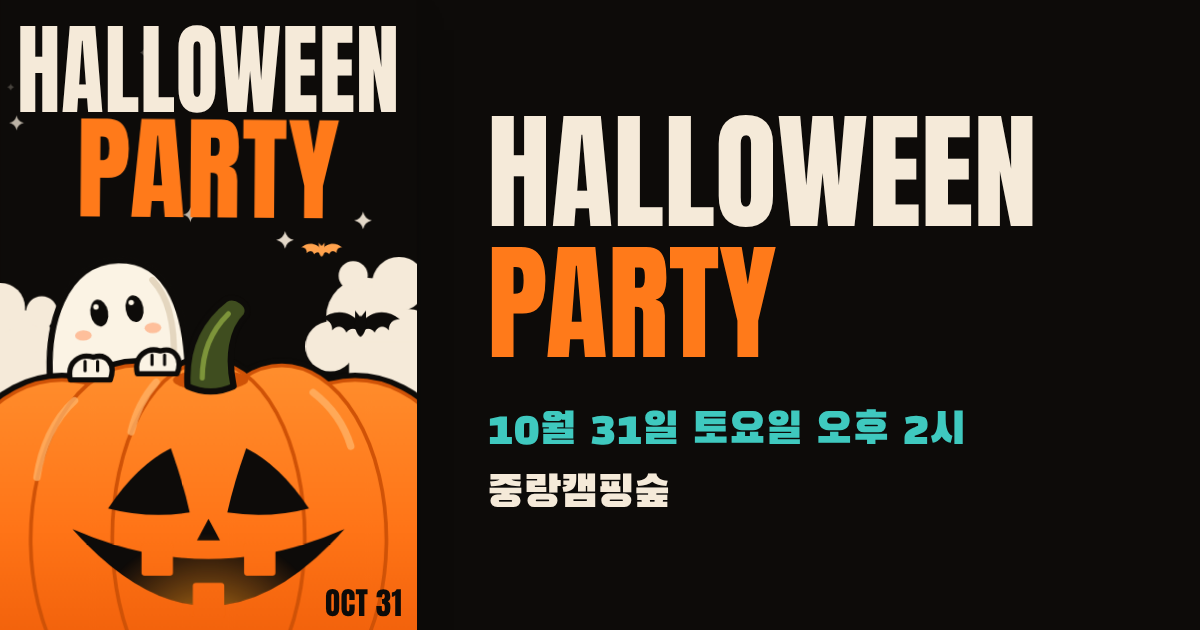
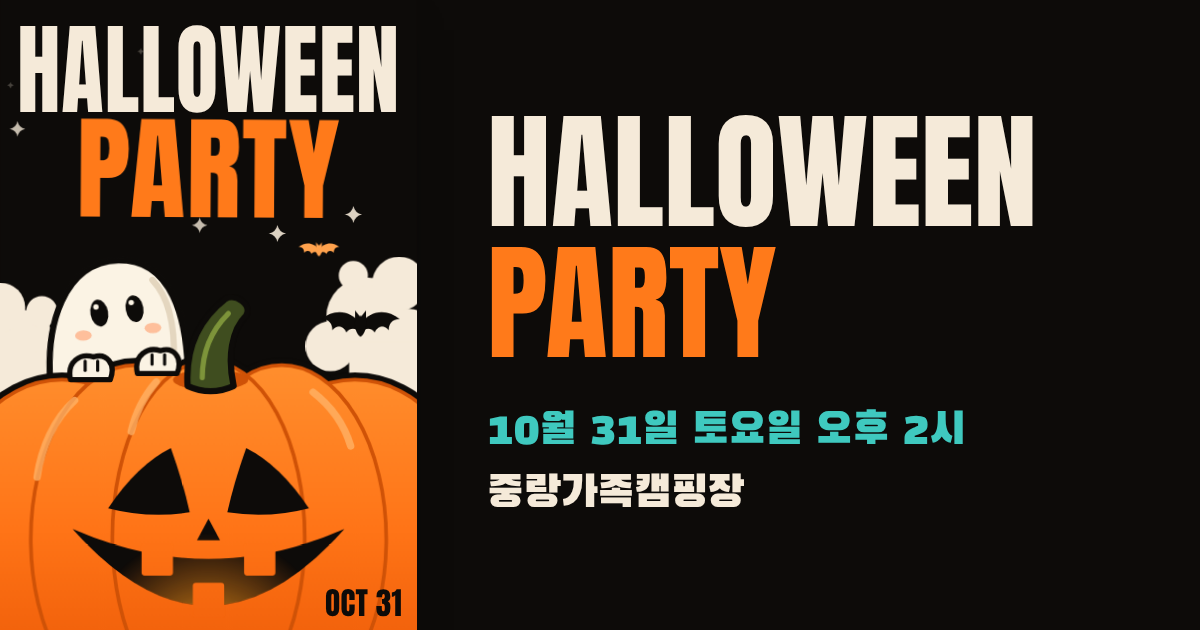
Add files via upload

diff --git a/index.html b/index.html
@@ -4,12 +4,12 @@
 <meta charset="utf-8">
 <meta name="viewport" content="width=device-width, initial-scale=1, viewport-fit=cover">
 <title>할로윈 파티 초대장</title>
-<meta name="description" content="10월 31일 토요일 오후 2시, 중랑캠핑숲에서 만나요.">
+<meta name="description" content="10월 31일 토요일 오후 2시, 중랑가족캠핑장에서 만나요.">
 <meta name="theme-color" content="#0d0b09">
 <meta property="og:type" content="website">
 <meta property="og:url" content="https://hyunsohyun.github.io/halloween-party/">
 <meta property="og:title" content="할로윈 파티에 초대합니다 👻">
-<meta property="og:description" content="10월 31일 토요일 오후 2시 · 중랑캠핑숲">
+<meta property="og:description" content="10월 31일 토요일 오후 2시 · 중랑가족캠핑장">
 <meta property="og:image" content="https://hyunsohyun.github.io/halloween-party/og-image.png">
 <link rel="preconnect" href="https://fonts.googleapis.com">
 <link rel="preconnect" href="https://fonts.gstatic.com" crossorigin>
@@ -278,6 +278,7 @@
     color: var(--cream);
     text-wrap: balance;
   }
+  .row-addr{ font-size: 14px; color: var(--ink-dim); margin-top: 3px; user-select: text; }
 </style>
 </head>
 <body>
@@ -467,7 +468,8 @@
       </span>
       <div style="width:100%">
         <div class="row-label">장소</div>
-        <div class="row-value">중랑캠핑숲</div>
+        <div class="row-value">중랑가족캠핑장</div>
+        <div class="row-addr">서울 중랑구 망우로87길 110</div>
       </div>
     </div>
 
